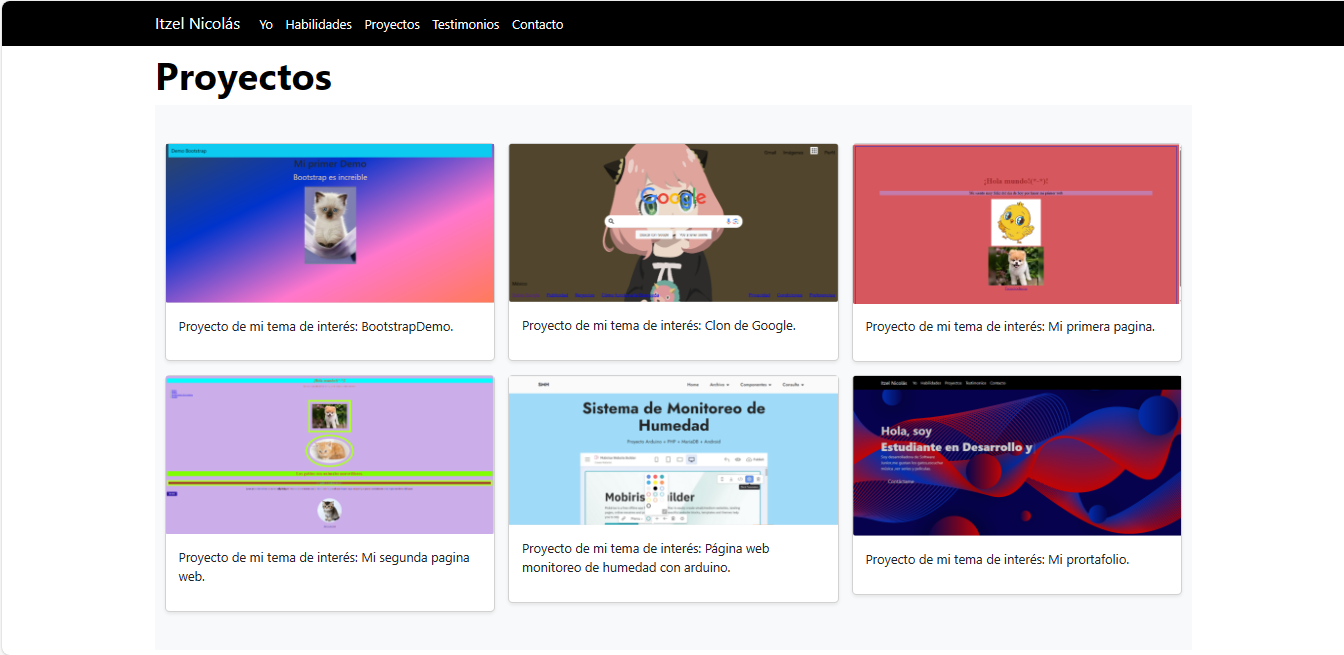
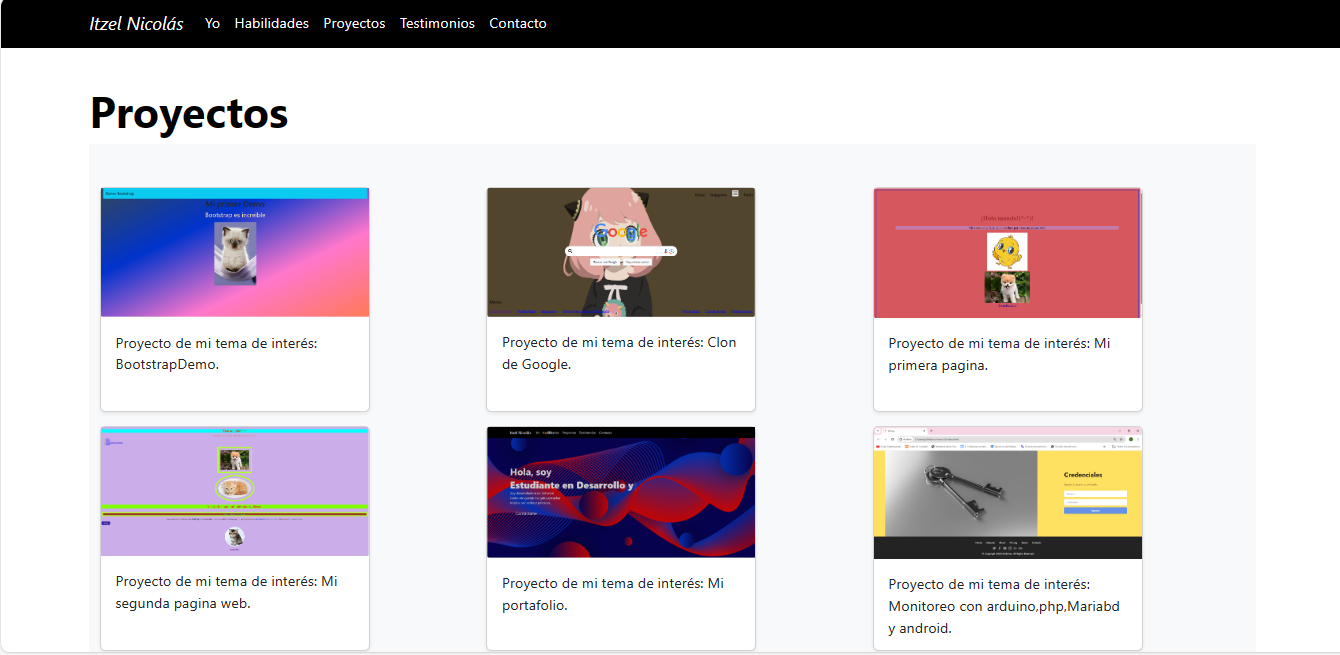
Add files via upload

diff --git a/style.css b/style.css
@@ -1,136 +1,144 @@
-                            nav,
-                            header {
-                                color: white;
-                            }
-                            
-                            #navbarNav a {
-                                color: white;
-                            }
-                            
-                            .icono {
-                                font-size: 3rem;
-                                color: rgb(16, 46, 179);
-                                background-color: rgb(3, 11, 26);
-                                padding: 1rem;
-                                margin: 1rem;
-                                border-radius: 12px;
-                            }
-                            
-                            .icono-contacto {
-                                font-size: 2rem;
-                                color: rgb(255, 255, 255);
-                                background-color: black;
-                                /*        arriba derecha abajo izq 
+                                nav,
+                                header {
+                                    color: white;
+                                }
+                                
+                                #navbarNav a {
+                                    color: white;
+                                    text-align: right;
+                                }
+                                
+                                .icono {
+                                    font-size: 3rem;
+                                    color: rgb(16, 46, 179);
+                                    background-color: rgb(3, 11, 26);
+                                    padding: 1rem;
+                                    margin: 1rem;
+                                    border-radius: 12px;
+                                }
+                                
+                                .icono-contacto {
+                                    font-size: 2rem;
+                                    color: rgb(255, 255, 255);
+                                    background-color: black;
+                                    /*        arriba derecha abajo izq 
                                       padding: 0.5rem 1rem 0.5rem 1rem; */
-                                padding: 0.8rem 1rem;
-                                margin: 1rem;
-                                border-radius: 75%;
-                            }
-                            
-                            #icono-footer {
-                                font-size: 5rem;
-                                color: blue;
-                                padding: 1rem;
-                                margin: 1rem;
-                                border-radius: 12px;
-                            }
-                            
-                            .subtitulo-habilidades {
-                                margin-top: 16px;
-                            }
-                            
-                            header {
-                                padding-right: 0px !important;
-                                padding-left: 0px !important;
-                                height: 100vh;
-                                background-image: url('assets/fondo.png');
-                                background-size: cover;
-                                background-position: center;
-                                background-repeat: no-repeat;
-                                /* Prevent the image from repeating */
-                                background-attachment: fixed;
-                                /* Keep the image in place while scrolling */
-                                filter: brightness(0.8);
-                                /* Adjust the brightness */
-                            }
-                            
-                            .animated-border {
-                                border: 5px solid transparent;
-                                position: relative;
-                                animation: borderAnimation 2s infinite alternate;
-                            }
-                            
-                            @keyframes borderAnimation {
-                                20% {
-                                    border-top-color: black;
-                                    border-right-color: transparent;
-                                    border-bottom-color: transparent;
-                                    border-left-color: transparent;
+                                    padding: 0.8rem 1rem;
+                                    margin: 1rem;
+                                    border-radius: 75%;
                                 }
-                                30% {
-                                    border-top-color: transparent;
-                                    border-right-color: palevioletred;
-                                    border-bottom-color: transparent;
-                                    border-left-color: transparent;
+                                
+                                #icono-footer {
+                                    font-size: 5rem;
+                                    color: blue;
+                                    padding: 1rem;
+                                    margin: 1rem;
+                                    border-radius: 12px;
                                 }
-                                50% {
-                                    border-top-color: transparent;
-                                    border-right-color: transparent;
-                                    border-bottom-color: rgb(9, 49, 227);
-                                    border-left-color: transparent;
+                                
+                                .subtitulo-habilidades {
+                                    margin-top: 16px;
                                 }
-                                75% {
-                                    border-top-color: transparent;
-                                    border-right-color: transparent;
-                                    border-bottom-color: transparent;
-                                    border-left-color: red;
+                                
+                                header {
+                                    padding-right: 0px !important;
+                                    padding-left: 0px !important;
+                                    height: 100vh;
+                                    background-image: url('assets/fondo.png');
+                                    background-size: cover;
+                                    background-position: center;
+                                    background-repeat: no-repeat;
+                                    /* Prevent the image from repeating */
+                                    background-attachment: fixed;
+                                    /* Keep the image in place while scrolling */
+                                    filter: brightness(0.8);
+                                    /* Adjust the brightness */
                                 }
-                                100% {
-                                    border-top-color: transparent;
-                                    border-right-color: transparent;
-                                    border-bottom-color: transparent;
-                                    border-left-color: transparent;
+                                
+                                .animated-border {
+                                    border: 5px solid transparent;
+                                    position: relative;
+                                    animation: borderAnimation 2s infinite alternate;
                                 }
-                            }
-                            
-                            .github:hover {
-                                color: #5a36af;
-                                /* Color de GitHub */
-                            }
-                            
-                            .instagram:hover {
-                                color: brown;
-                                /* Color de Instagram */
-                            }
-                            
-                            .correo:hover {
-                                color: #f22121;
-                                /* Color de Correo */
-                            }
-                            
-                            .linkedin:hover {
-                                color: #0e76a8;
-                                /* Color de LinkedIn */
-                            }
-                            
-                            .facebook:hover {
-                                color: blue;
-                                /* Color de Facebook */
-                            }
-                            
-                            .navbar-nav .nav-item:hover {
-                                background-color: rgb(67, 52, 135);
-                            }
-                            
-                            #testimonios {
-                                background-color: rgba(23, 23, 23, 0.866);
-                                /* Cambia el color al que desees */
-                                padding: 0px;
-                                /* Ajusta el espacio interno según sea necesario */
-                                color: white;
-                            }
-                            
-                            .carousel-item img {
-                                border: 5px solid #1c0bd6;
-                                /* Ajusta el grosor y el color del borde según tus preferencias */
-                            }
+                                
+                                @keyframes borderAnimation {
+                                    20% {
+                                        border-top-color: black;
+                                        border-right-color: transparent;
+                                        border-bottom-color: transparent;
+                                        border-left-color: transparent;
+                                    }
+                                    30% {
+                                        border-top-color: transparent;
+                                        border-right-color: palevioletred;
+                                        border-bottom-color: transparent;
+                                        border-left-color: transparent;
+                                    }
+                                    50% {
+                                        border-top-color: transparent;
+                                        border-right-color: transparent;
+                                        border-bottom-color: rgb(9, 49, 227);
+                                        border-left-color: transparent;
+                                    }
+                                    75% {
+                                        border-top-color: transparent;
+                                        border-right-color: transparent;
+                                        border-bottom-color: transparent;
+                                        border-left-color: red;
+                                    }
+                                    100% {
+                                        border-top-color: transparent;
+                                        border-right-color: transparent;
+                                        border-bottom-color: transparent;
+                                        border-left-color: transparent;
+                                    }
+                                }
+                                
+                                .github:hover {
+                                    color: #5a36af;
+                                    /* Color de GitHub */
+                                }
+                                
+                                .instagram:hover {
+                                    color: brown;
+                                    /* Color de Instagram */
+                                }
+                                
+                                .correo:hover {
+                                    color: #f22121;
+                                    /* Color de Correo */
+                                }
+                                
+                                .linkedin:hover {
+                                    color: #0e76a8;
+                                    /* Color de LinkedIn */
+                                }
+                                
+                                .facebook:hover {
+                                    color: blue;
+                                    /* Color de Facebook */
+                                }
+                                
+                                .navbar-nav .nav-item:hover {
+                                    background-color: rgb(67, 52, 135);
+                                }
+                                
+                                #testimonios {
+                                    background-color: rgba(23, 23, 23, 0.866);
+                                    /* Cambia el color al que desees */
+                                    padding: 0px;
+                                    /* Ajusta el espacio interno según sea necesario */
+                                    color: white;
+                                }
+                                
+                                .carousel-item img {
+                                    border: 5px solid #1c0bd6;
+                                    /* Ajusta el grosor y el color del borde según tus preferencias */
+                                }
+                                
+                                .card {
+                                    width: 300px;
+                                    /* Establece el ancho deseado */
+                                    height: 250px;
+                                    /* Establece la altura deseada */
+                                }

diff --git a/index.html b/index.html
@@ -17,7 +17,8 @@
 
     <nav class="navbar fixed-top navbar-expand-lg bg-black">
         <div class="container">
-            <a class="navbar-brand text-white" href="#">Itzel Nicolás</a>
+            <a class="navbar-brand text-white" href="#"><i>Itzel Nicolás</i></a>
+
             <button class="navbar-toggler" type="button" data-bs-toggle="collapse" data-bs-target="#navbarNav" aria-controls="navbarNav" aria-expanded="false" aria-label="Toggle navigation">
         <span class="navbar-toggler-icon"></span>
       </button>
@@ -212,21 +213,6 @@
                                     </div>
                                 </div>
 
-                                <div class="col">
-                                    <div class="card shadow-sm">
-
-                                        <img id="imagen1" src="assets/pagina web.png" alt="pagina web">
-
-                                        <div class="card-body">
-                                            <p class="card-text">Proyecto de mi tema de interés: Página web monitoreo de humedad con arduino.</p>
-                                            <div class="d-flex justify-content-between align-items-center">
-                                                <!-- <small class="text-body-secondary">Proyecto videojuegos</small> -->
-                                            </div>
-                                        </div>
-
-
-                                    </div>
-                                </div>
 
 
 
@@ -237,7 +223,7 @@
                                 <div class="col">
                                     <div class="card shadow-sm">
 
-                                        <img src="assets/miportafolio.PNG" alt="miportafolio">
+                                        <img src="assets/miportafolio.jpeg" alt="miportafolio">
 
                                         <div class="card-body">
                                             <p class="card-text">Proyecto de mi tema de interés: Mi portafolio.</p>
@@ -251,6 +237,21 @@
                                 </div>
 
 
+                                <div class="col">
+                                    <div class="card shadow-sm">
+
+                                        <img src="assets/Captura.PNG" alt="">
+
+                                        <div class="card-body">
+                                            <p class="card-text">Proyecto de mi tema de interés:Monitoreo con arduino,php,Mariabd y android.</p>
+                                            <div class="d-flex justify-content-between align-items-center">
+                                                <!-- <small class="text-body-secondary">Proyecto  Segunda pagína web en html</small> -->
+                                            </div>
+                                        </div>
+
+
+                                    </div>
+                                </div>
 
 
 

diff --git a/script.js b/script.js
@@ -1,16 +1,13 @@
-var app = document.getElementById('app');
-
-var typewriter = new Typewriter(app, {
+let app = new Typewriter('#app', {
     loop: true
 });
 
-typewriter
-    .typeString('Itzel Nicolás')
+app.typeString('<i>Itzel Nicolás</i>')
     .pauseFor(1500)
     .deleteAll()
-    .typeString('Programadora')
+    .typeString('<i>Programadora</i>')
     .pauseFor(1500)
     .deleteAll()
-    .typeString('<strong>Estudiante en Desarrollo y Gestión de Software.</strong>')
+    .typeString('<i>Estudiante en Desarrollo y Gestión de Software.</i>')
     .pauseFor(1500)
     .start();

diff --git a/README.md b/README.md
@@ -14,7 +14,7 @@ Fue desarrollado con HTML, CSS y JS con el uso de framework Bootstrap utilizando
 * Bootstrap 5
 
 - Capturas de pantalla 
-![Sección Yo](assets/th.PNG)
+![Sección Yo](assets/th.jpeg)
 ![Sección Yo](assets/th1.PNG)
 ![Sección Yo](assets/th2.PNG)
 ![Sección Yo](assets/th3.PNG)
